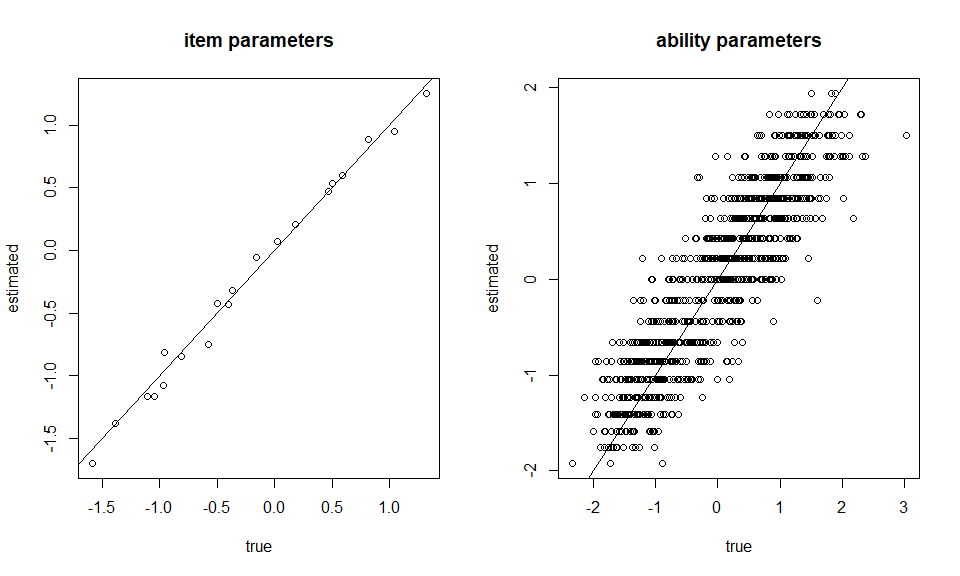
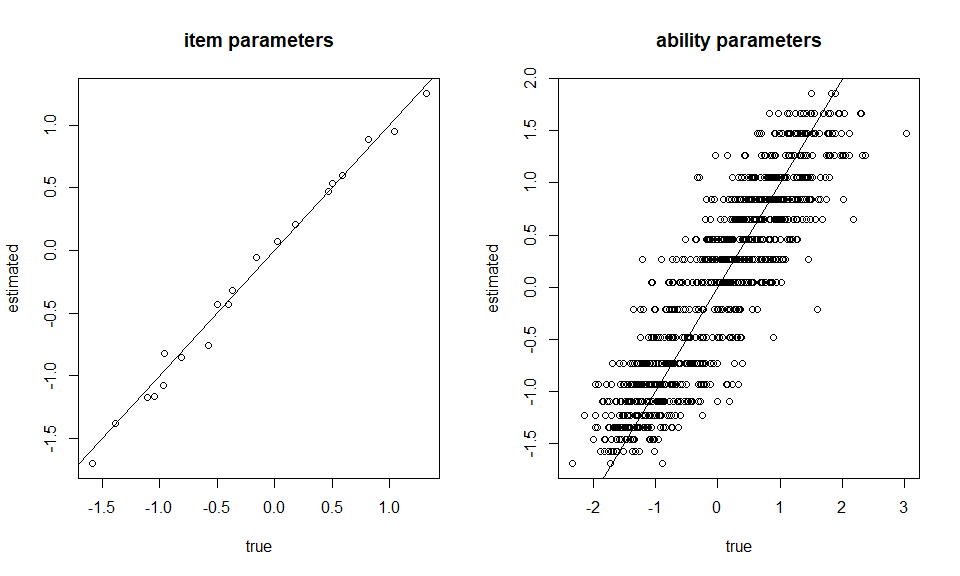
readme updated

diff --git a/README.md b/README.md
@@ -85,17 +85,16 @@ theta <- Alldata$theta
 
 -   Analysis
 
-For an illustrative purpose, kernel density estimation method is used
-for the estimation of latent distribution.
+For an illustrative purpose, empirical histogram method is used for the
+estimation of latent distribution.
 
 ``` r
 Mod1 <- IRTest_Dich(initialitem = initialitem,
                     data = data,
                     model = rep(1, 20),
-                    latent_dist = "KDE",
+                    latent_dist = "EHM",
                     max_iter = 200,
-                    threshold = .001,
-                    bandwidth = "SJ-ste"
+                    threshold = .001
                     )
 ```
 
@@ -129,26 +128,26 @@ item
 ### Estimated item parameters
 Mod1$par_est
 #>       a           b c
-#>  [1,] 1 -0.81623195 0
-#>  [2,] 1  0.95015752 0
-#>  [3,] 1  0.46915203 0
-#>  [4,] 1 -0.05749927 0
-#>  [5,] 1 -0.84878003 0
-#>  [6,] 1 -0.43074133 0
-#>  [7,] 1  0.88386899 0
-#>  [8,] 1 -0.31516204 0
-#>  [9,] 1 -1.16661181 0
-#> [10,] 1  0.53539420 0
-#> [11,] 1 -1.07284758 0
-#> [12,] 1 -1.16067060 0
-#> [13,] 1  0.07060026 0
-#> [14,] 1  1.25273942 0
-#> [15,] 1 -0.42568580 0
-#> [16,] 1  0.20393832 0
-#> [17,] 1 -1.37608089 0
-#> [18,] 1  0.59711331 0
-#> [19,] 1 -0.75183337 0
-#> [20,] 1 -1.69678802 0
+#>  [1,] 1 -0.81778940 0
+#>  [2,] 1  0.95147161 0
+#>  [3,] 1  0.47031687 0
+#>  [4,] 1 -0.05744344 0
+#>  [5,] 1 -0.85035950 0
+#>  [6,] 1 -0.43165890 0
+#>  [7,] 1  0.88522005 0
+#>  [8,] 1 -0.31579314 0
+#>  [9,] 1 -1.16806277 0
+#> [10,] 1  0.53663630 0
+#> [11,] 1 -1.07440478 0
+#> [12,] 1 -1.16213006 0
+#> [13,] 1  0.07098615 0
+#> [14,] 1  1.25366401 0
+#> [15,] 1 -0.42659144 0
+#> [16,] 1  0.20463597 0
+#> [17,] 1 -1.37707762 0
+#> [18,] 1  0.59841164 0
+#> [19,] 1 -0.75333017 0
+#> [20,] 1 -1.69652969 0
 
 ### Plotting
 par(mfrow=c(1,2))
@@ -167,7 +166,7 @@ plot_LD(Mod1)+geom_line(mapping = aes(colour="Estimated"))+
   geom_line(mapping=aes(x=seq(-6,6,length=121), 
                         y=dist2(seq(-6,6,length=121),prob = .3, d=1.664, sd_ratio = 2), 
                         colour="True"))+
-  labs(title="The estimated latent density using 'KDE'",
+  labs(title="The estimated latent density using 'EHM'",
        colour= "Type")+theme_bw()
 ```
 
